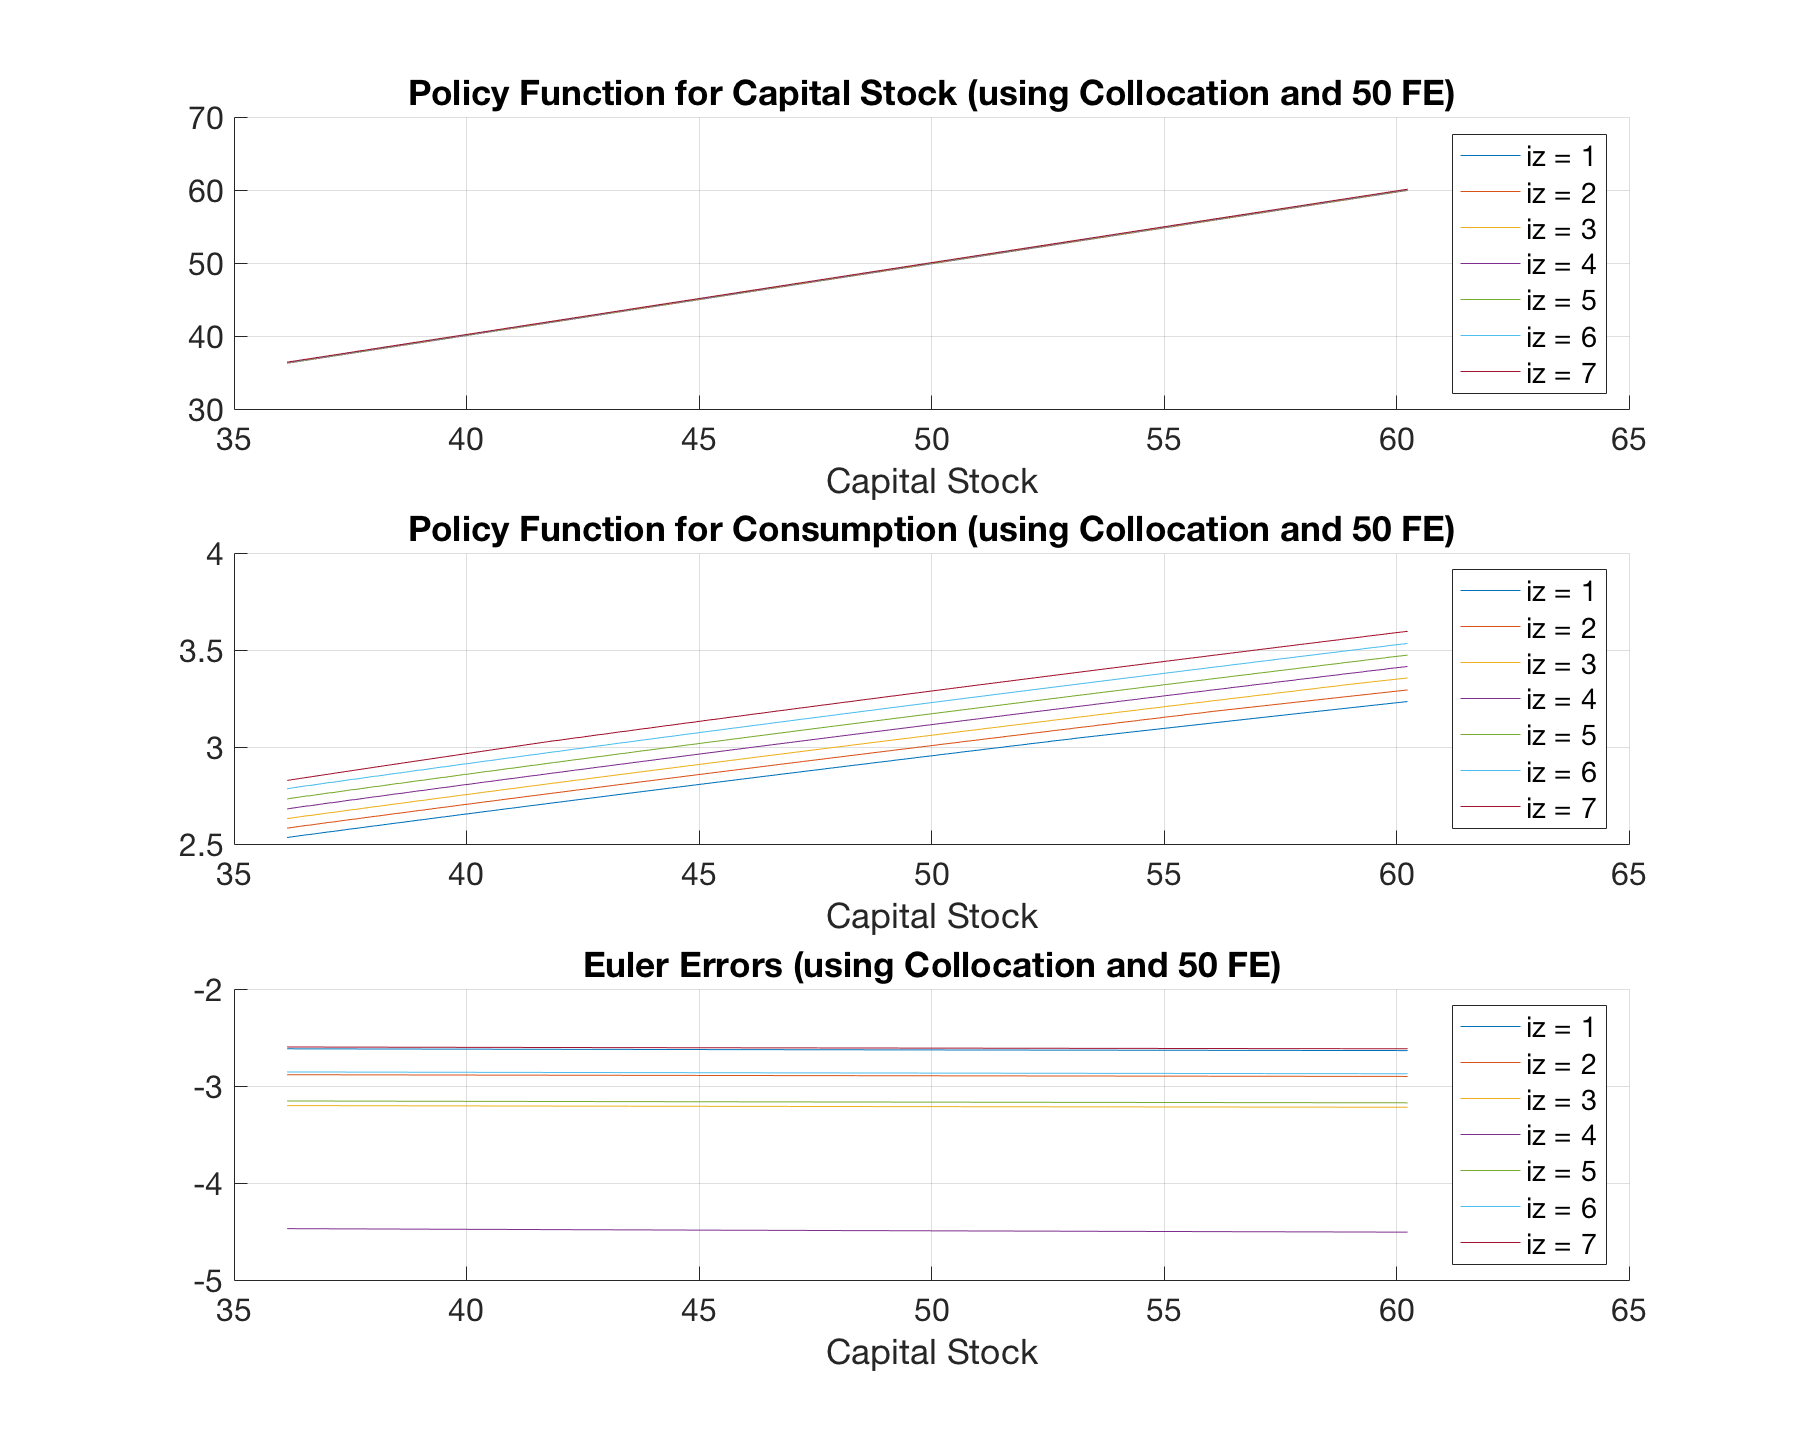
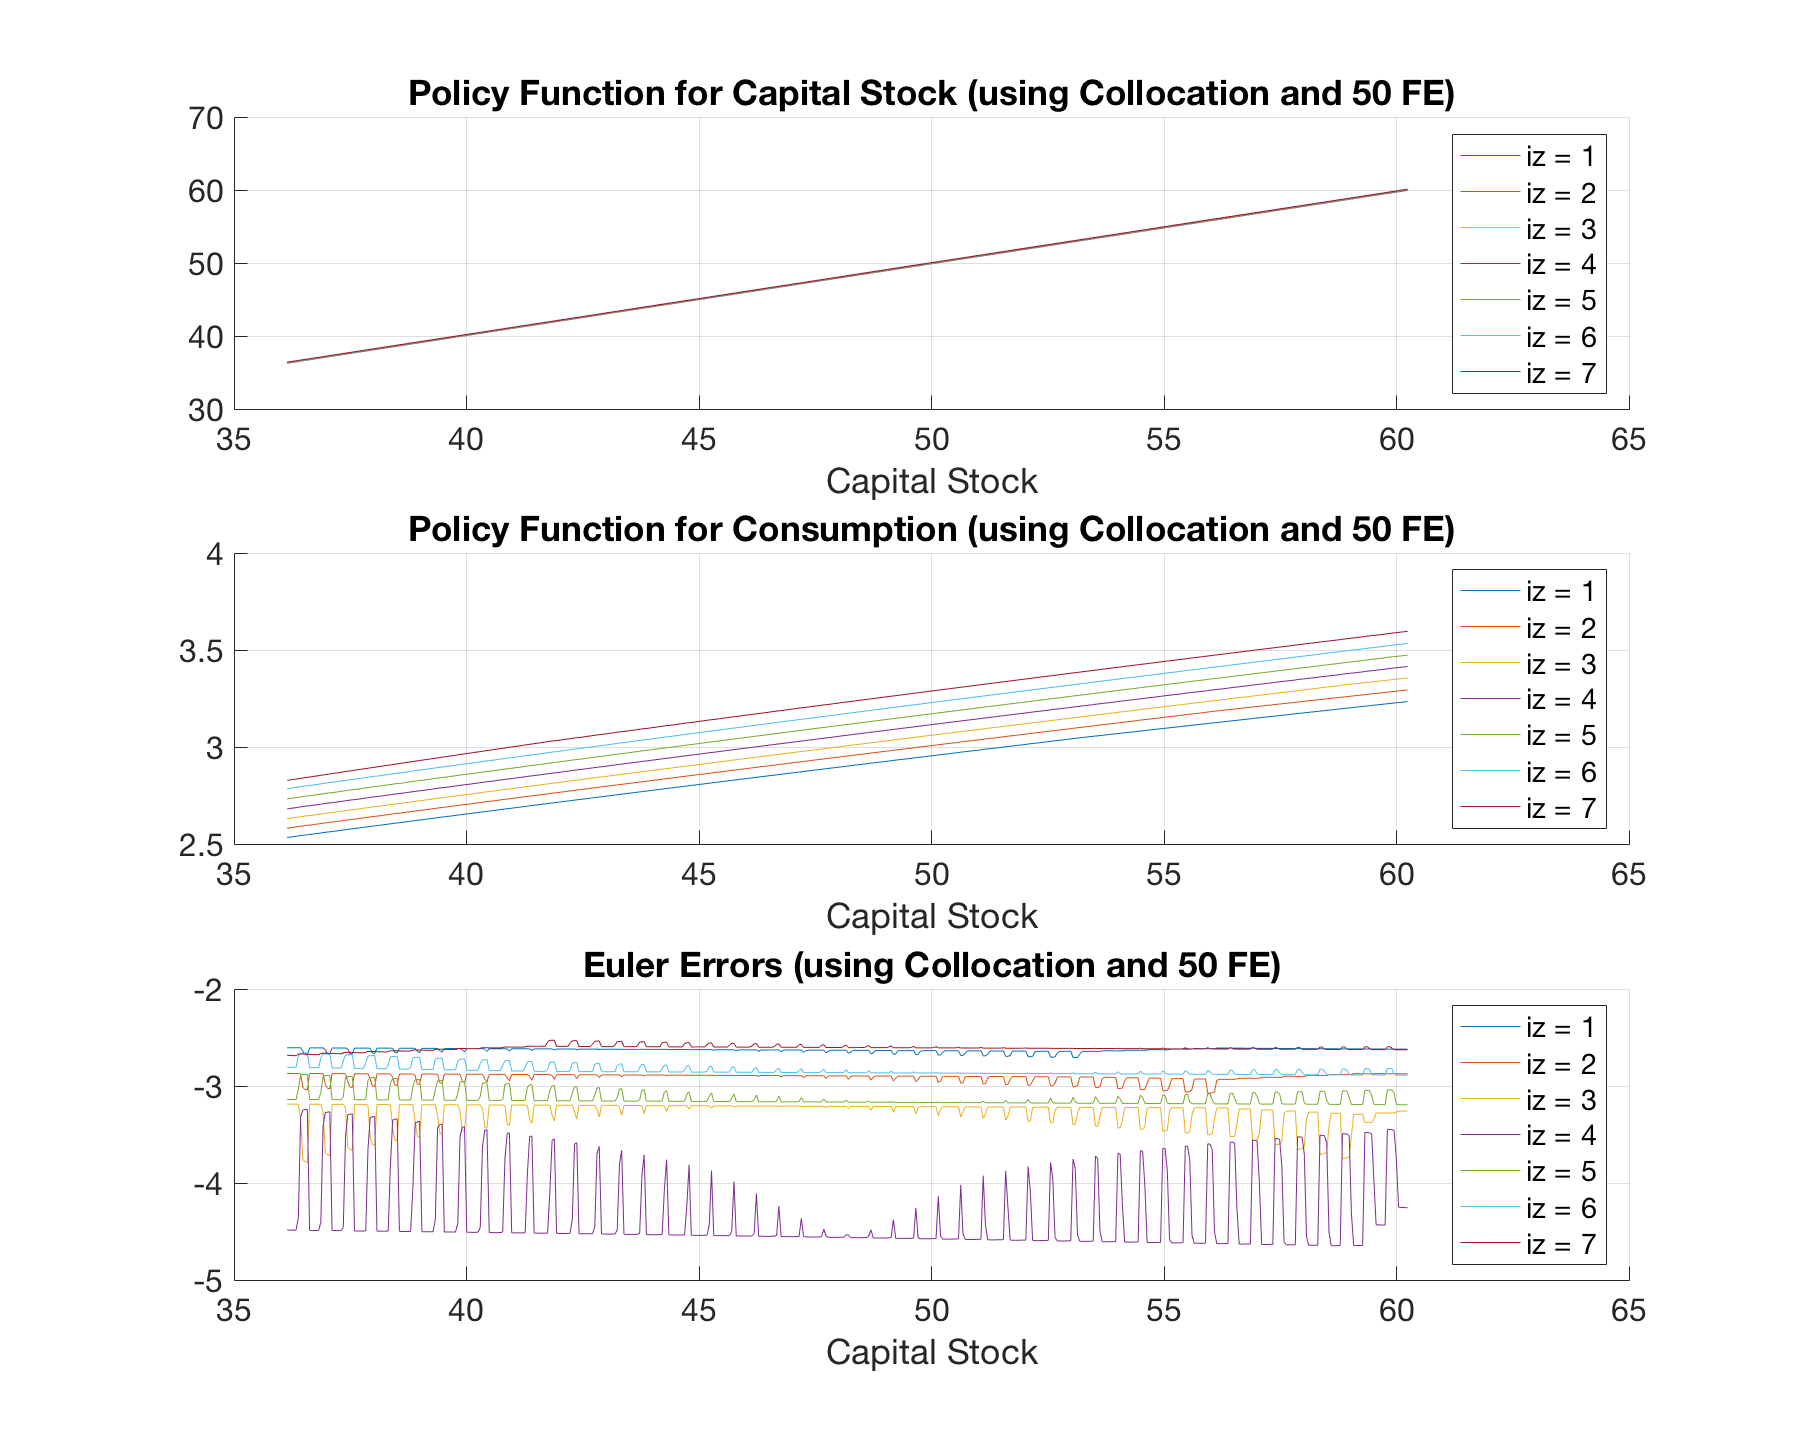
Corrected some typos and updated report (special thanks to Marina Lemos)

Changed region(s): [[0.1556, 0.7118, 0.7778, 0.8666]]

diff --git a/ps3/ps3.m b/ps3/ps3.m
@@ -179,11 +179,11 @@ g_finel = exp(zgrid).*kgrid.^alpha + (1-delta)*kgrid - C_finel;
 next_C_finel = zeros(nk, nz);
 
 for iz = 1:nz
-    next_C_finel(:, iz) = interp1(kgrid, C(:, iz), g(:, iz));
+    next_C_finel(:, iz) = interp1(kgrid, C_finel(:, iz), g_finel(:, iz));
 end
 
-E = u_marginal(next_C).* pmg(g, zgrid) * P';
-EE_finel = log10(abs(1 - u_marginal_inverse(beta*E)./C));
+E = u_marginal(next_C_finel).* pmg(g_finel, zgrid) * P';
+EE_finel = log10(abs(1 - u_marginal_inverse(beta*E)./C_finel));
 
 %% Plotting Results
 disp(' ')
@@ -238,4 +238,6 @@ hold off
 grid on
 
 %% Problem 2 - Finite Elements + Galerkin
+
+
 
